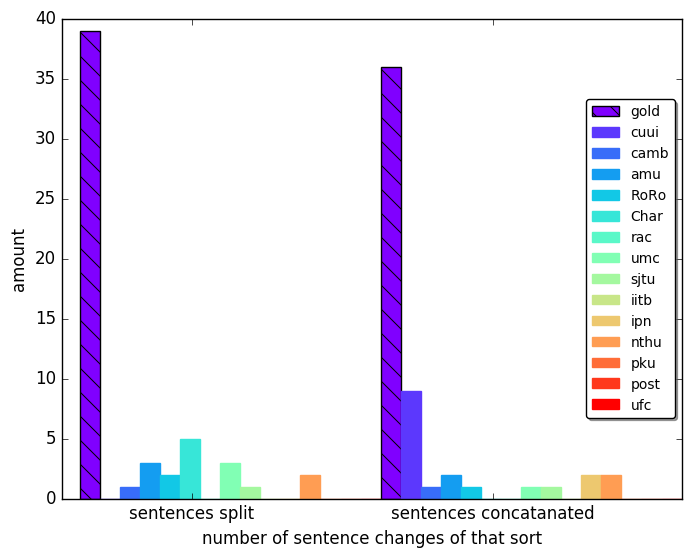
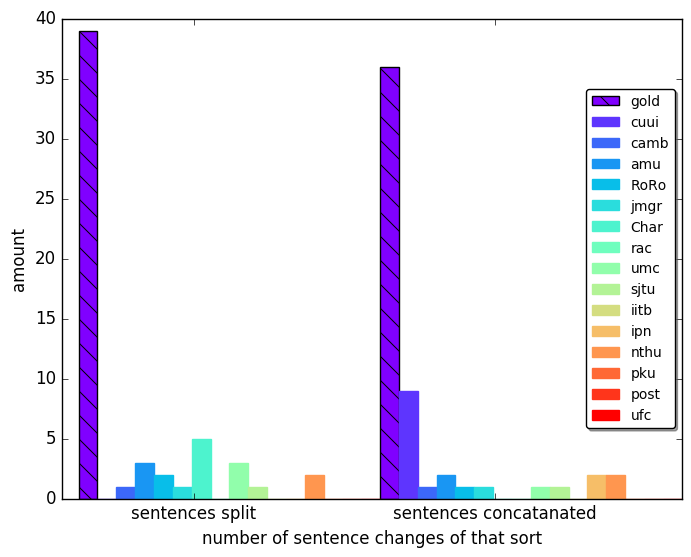
added jmgr

diff --git a/main.tex b/main.tex
@@ -240,26 +240,19 @@ which is the de facto standard in GEC.
 The corpus contains 1414 essays in LL and 50 test essays, each of about 500 words.
 
 We evaluate all participating systems in the CoNLL 2014 shared task,
-in addition to two of the best performing systems on this dataset, a hybrid corrector and a neural network based corrector.
+in addition to three of the best performing systems on this dataset, a hybrid corrector, a phrase based machine translator and a neural network based corrector.
 The particiapting systems and their abbreviations are: Adam Mickiewicz University (AMU),
 University of Cambridge (CAMB), Columbia University and the University of Illinois at Urbana-Champaign (CUUI),
 Indian Institute of Technology, Bombay (IITB), Instituto Politecnico Nacional (IPN),
 National Tsing Hua University (NTHU), Peking University (PKU), Pohang University of Science and Technology (POST),
 Research Institute for Artificial Intelligence, Romanian Academy (RAC), Shanghai Jiao Tong University (SJTU),
-University of Franche Comt\'{e} (UFC), University of Macau (UMC), \newcite[RoRo]{rozovskaya2016grammatical}, \newcite[char]{xie2016neural}.
+University of Franche Comt\'{e} (UFC), University of Macau (UMC), \newcite[RoRo]{rozovskaya2016grammatical}, \newcite[JMGR]{junczysdowmunt-grundkiewicz:2016:EMNLP2016} \newcite[char]{xie2016neural}.
 All are trained and tested on the NUCLE corpus.
 
 We compare the prevalence of changes made to the source by the correctors,
 relative to their prevalence in the NUCLE reference.
 In order to focus on the more substantial changes, we exclude from our evaluation
-all non-alphanumeric characters, both within tokens or as tokens of their own.
-%
-%In order to have better evaluation of the real goal of corrections we also
-%compute all of the measures on ,
-%based on the Cambridge First Certificate in English
-%(FCE) \cite{yannakoudakis2011new},
-%a new large parallel corpus containing only ungrammatical sentences of learners
-%native of different languages.\oa{I didn't understand this sentence; how do we use this corpus?}
+
 
 \paragraph{Measures of Conservatism.}
 We consider three types of divergences between the source and the reference.
@@ -816,8 +809,7 @@ is substantial. RBMs such as accuracy and $F$-score thus show diminishing return
 %a larger $M$ without acquiring more sentences and also annotating them.
 %Choosing how to balance is dependent on the goals of the one collecting data, and affects over
 %the mean value as well, as discussed in \ref{subsec:Assessment-values}. Thus, we bring supporting data and
-%leave the decision to the reader. We just point out that such balancing questions have been studied in
-%various fields such as genetics \cite{ionita2010optimal}.\oa{}
+%leave the decision to the reader. 
 
 Returning to condition (\ref{eq:reward}) (\S \ref{subsec:motivating_analysis}), we find that the coverage
 (which is equal to the accuracy depicted in Figure \ref{fig:accuracy_vals})
@@ -914,14 +906,7 @@ is not necessarily an upper bound, as an over-conservative corrector may surpass
 %Notably, not matter what are $r, pu$ when $p\left(x\in y\right)$ is small enough the perfect
 %corrector will choose \emph{not} to correct.
 %
-%
-%One would like to suggest that the outstanding correctors have learned to correct like the specific annotator they have seen in the train. But as noted they do not correct enough, so that explanation lacks. An alternative explanation for it is that our prediction was right. The correctors avoid correcting sentences which they predict not to be well covered in the gold standard, gaining from that significantly.
-%\lc{Supposedly why creating the gold standard texts and the edits is hard should come here. Not sure how important it is, well it is hard, but this is what we have chosen and I don't think of a specific criticism we should fend off by it.}
-%
-%In respect to the edits, we note that the score for $M=2$ is a bit lower than one would expect\oa{why should I expect this?}. \lc{funny that you ask, well you did ask me that in person afterwards didn't you? :D}
-%		
-%\com{This may result by the mechanical creation of edits. The different edits might give bias to the results\oa{but this is also true when evaluating real systems, no?}. Edit borders are not part of what correctors need to extract, in other words, it is an information that is not inherent to the task. Those edits are a disadvantage of the scoring system itself. It makes crowdsourcing much harder, and the edits are yet another thing that annotations often disagree upon(\cite{dahlmeier2012better}). It might be another reason that calls for use of another, more interpretable score.}
-%\lc{as you have writen, edits bring bias to evaluation generally not only in our case, and they are actually not a part of the task, should we include this discussion somehow? we do talk about evaluation as the main frame of this discussion, this sounds to me like an interesting and important note}
+	
 %To conclude the main discussion of this section, if the NLP community has agreed one correction is not enough\cite{tetreault2008native}
 %%we can now say 2 is no magic number either. On both measures we see a large improvement in coverage when enlarging $M$, suggesting that a more reasonable $M$ to choose would be somewhere around 7 where the high probability corrections are probably covered and the graph turns semi-linear. The results also strongly support the hypothesis assessment values are very low, and hence might be a cause for over conservatism.
 %Another conclusion to be made is that given a value from the assessment process we may estimate how low the value is in respect to the perfect assessment. Some may wish to correct for this under assessment.
@@ -1173,12 +1158,6 @@ with the node $u \in V_c$ that maximizes
  \vspace{-0.1cm}
 \end{small}
 
-%We cast the problem of finding a node alignment as a maximum weighted bipartite matching problem between
-%the set of nodes $V_s$ and the set $V_c$, where the weight of an edge $(u,v) \in V_s \times V_c$ is
-%defined to be 
-%$A$ is defined to be the maximum weighted matching, excluding edges
-%with weight 0.\oa{why do we use many-to-1? {\bf this doesn't make sense because it favors
-%nodes up the tree. better to normalize}}
 We exclude from $A$ pairs $v,u$ such that $w(v,u)=0$.
 The resulting $F$-score measure, using the resulting $A$ is called UCCA Similarity ({\sc UCCASim}).
 As the resulting alignment may differ when aligning nodes from $V_c$ to $V_s$
